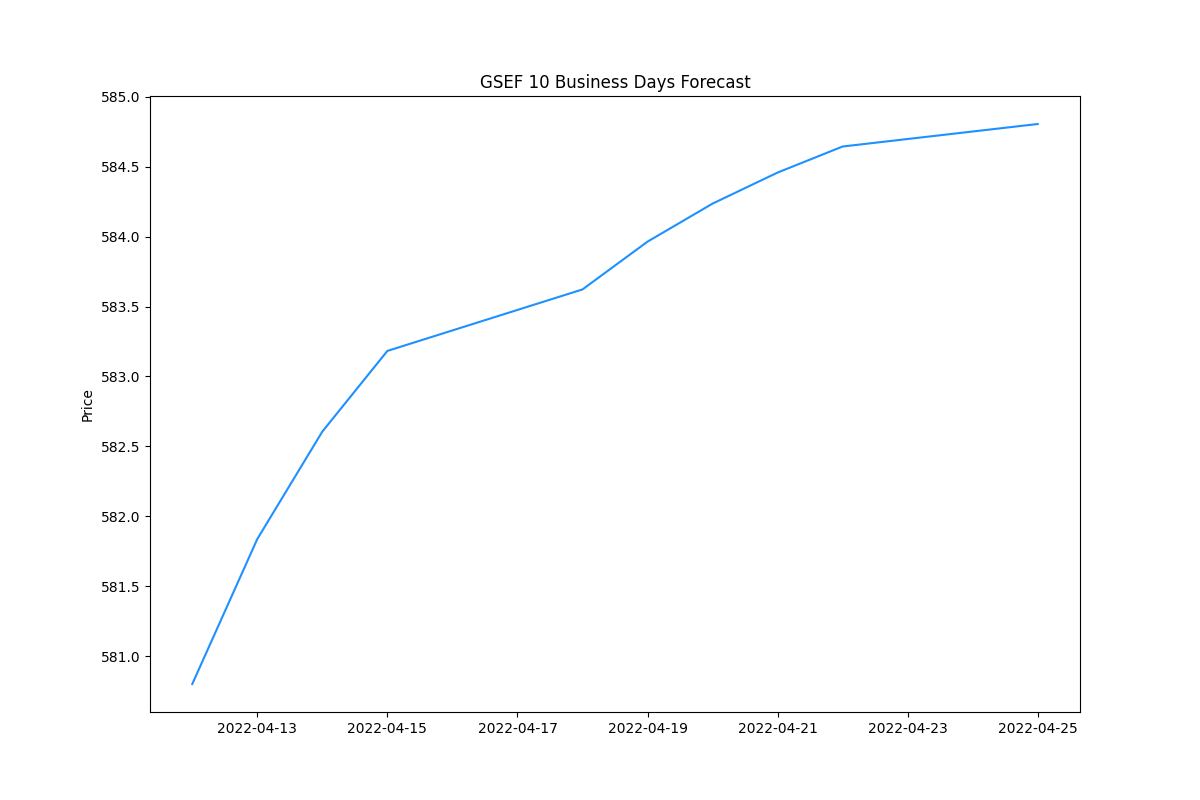
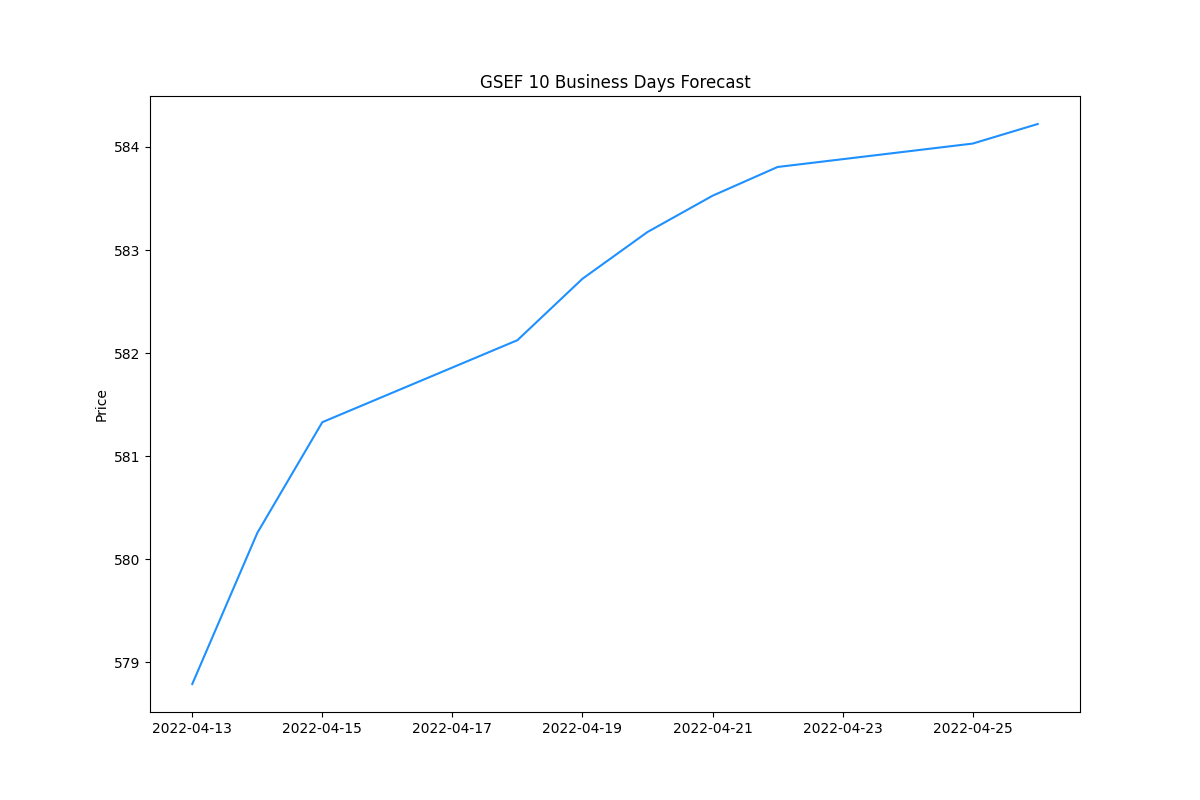
Decreased proportion of train, test split to 65%,35% respectively

diff --git a/gsef_time_series_forecast.py b/gsef_time_series_forecast.py
@@ -23,7 +23,7 @@ gsef_selected= gsef[['Date','Close']]
 y = gsef_selected['Close'].values
 
 ## Data splitting
-train_data, test_data = gsef_selected[0:int(len(gsef_selected)*0.7)], gsef_selected[int(len(gsef_selected)*0.7):]
+train_data, test_data = gsef_selected[0:int(len(gsef_selected)*0.65)], gsef_selected[int(len(gsef_selected)*0.65):]
 
 # Load/split your data
 y_train, y_test = train_test_split(y, train_size= len(train_data))
